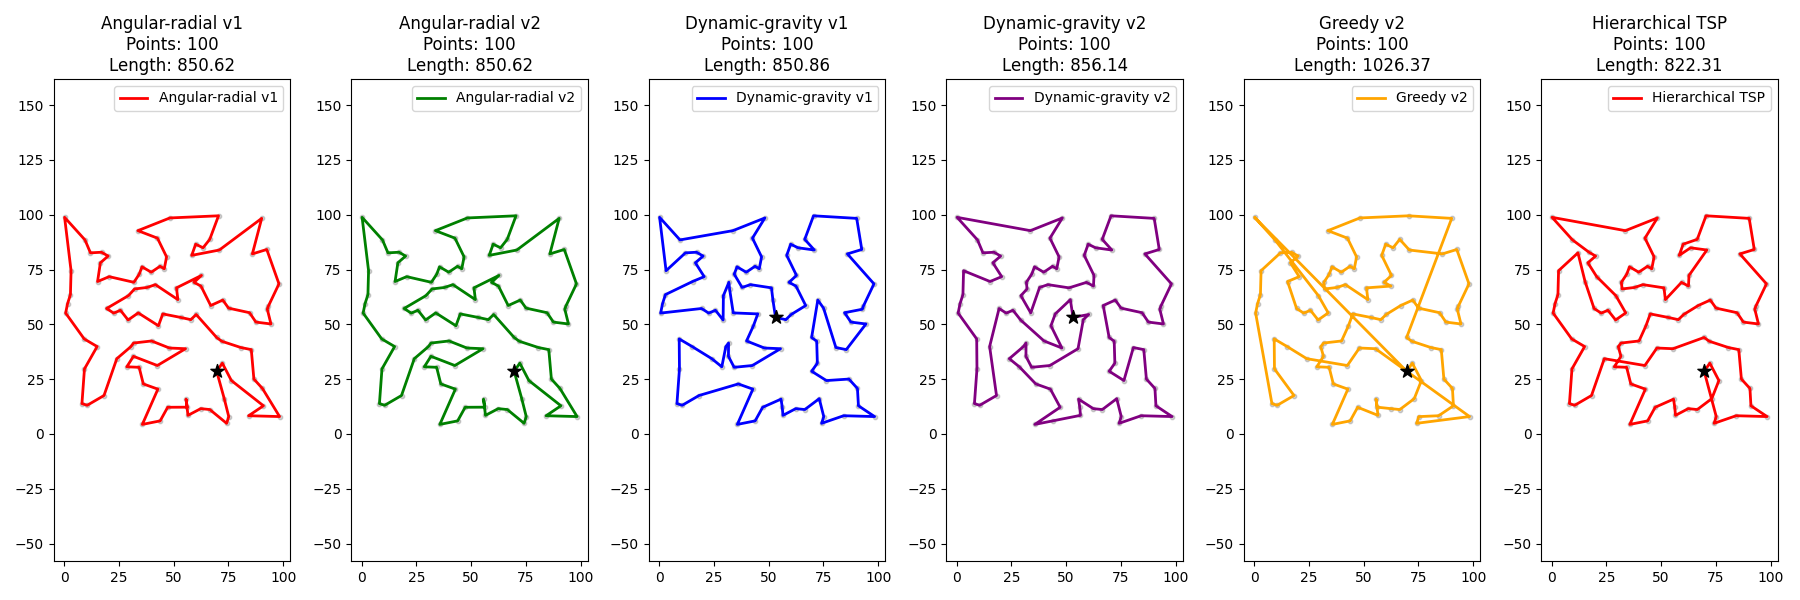
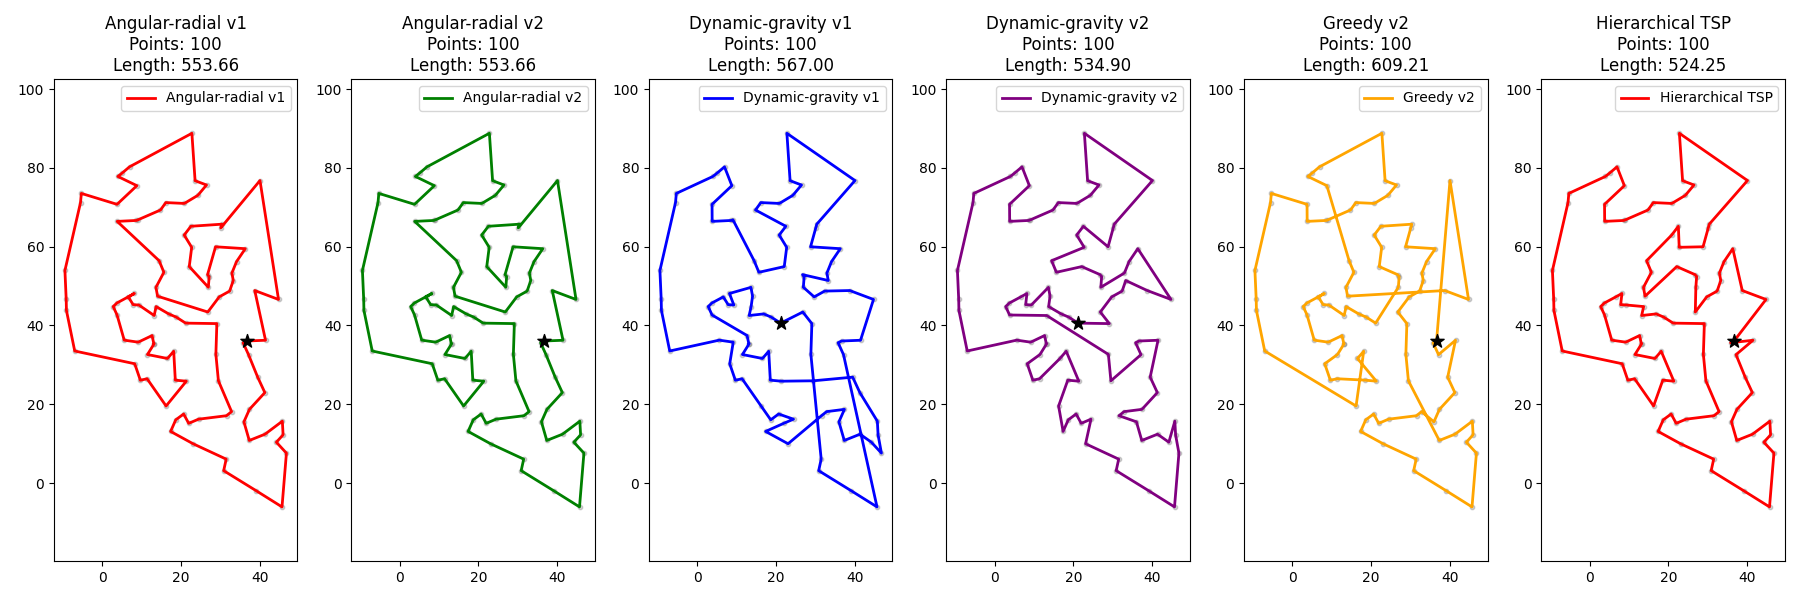
Smart TSP Solver v0.1.8
- fix errors

diff --git a/smart_tsp_solver/algorithms/hierarchical/v2.py b/smart_tsp_solver/algorithms/hierarchical/v2.py
@@ -124,7 +124,7 @@ def hierarchical_tsp_optimized(
         route = _greedy_tsp_simple(cities, dist_matrix)
         if post_optimize:
             route = _fast_2opt(route, dist_matrix, min(100, n * 2))
-        return route[:-1].tolist()
+        return route.tolist()
 
     k = max(2, n // cluster_size)
     labels, centroids = _simple_kmeans(cities, k)
@@ -156,7 +156,10 @@ def hierarchical_tsp_optimized(
         final_route_np = np.array(final_route, dtype=int)
         dist_matrix = _compute_dist_matrix_fast(cities)
         optimized_route = _fast_2opt(final_route_np, dist_matrix, 50)
-        return optimized_route[:-1].tolist()
+        return optimized_route.tolist()
+
+    if final_route and not post_optimize:
+        final_route.append(final_route[0])
 
     return final_route
 
@@ -190,6 +193,9 @@ def hierarchical_tsp_simple(cities: np.ndarray, **kwargs) -> List[int]:
             cluster_indices = np.where(labels == cluster_idx)[0]
             if len(cluster_indices) > 0:
                 final_route.append(cluster_indices[0])
+
+        if final_route:
+            final_route.append(final_route[0])
 
         return final_route
 

diff --git a/main.py b/main.py
@@ -13,7 +13,7 @@ def main():
     config = {
         'n_dots': 100,
         'seed': 123,
-        'dot_generation': 'random',
+        'dot_generation': 'cluster',
         'use_post_optimization': False,
         'plot_results': True,
         'verbose': True

diff --git a/README.md b/README.md
@@ -1,4 +1,4 @@
-# Smart TSP Solver <sup>v0.1.7</sup>
+# Smart TSP Solver <sup>v0.1.8</sup>
 
 ---
 
@@ -367,7 +367,7 @@ A commercial license is **required** for:
 ==================================================
 Dots:           100
 Seed:           123
-Generation:     random
+Generation:     cluster
 Post-opt:       OFF
 Algorithms:    
   - Angular-radial v1: 
@@ -382,69 +382,61 @@ Algorithms:
 ==================================================
 Running Angular-radial v1 algorithm...
 Description: Angular-radial v1
-Parameters: 
-Completed in 2.5245 seconds
-Route length: 850.62
+Completed in 0.0848 seconds
+Route length: 553.66
 ==================================================
 
 ==================================================
 Running Angular-radial v2 algorithm...
 Description: Angular-radial v2
-Parameters: 
-Completed in 0.6046 seconds
-Route length: 850.62
+Completed in 0.0082 seconds
+Route length: 553.66
 ==================================================
 
 ==================================================
 Running Dynamic-gravity v1 algorithm...
 Description: Dynamic-gravity v1
-Parameters: 
-Completed in 0.5134 seconds
-Route length: 850.86
+Completed in 0.0070 seconds
+Route length: 567.00
 ==================================================
 
 ==================================================
 Running Dynamic-gravity v2 algorithm...
 Description: Dynamic-gravity v2
-Parameters: 
-Completed in 0.5180 seconds
-Route length: 856.14
+Completed in 0.0067 seconds
+Route length: 534.90
 ==================================================
 
 ==================================================
 Running Greedy v2 algorithm...
 Description: Classic greedy TSP algorithm
-Parameters: 
-Completed in 0.1141 seconds
-Route length: 1026.37
+Completed in 0.0016 seconds
+Route length: 609.21
 ==================================================
 
 ==================================================
 Running Hierarchical TSP algorithm...
 Description: Hierarchical clustering TSP solver
-Parameters: 
-Completed in 0.0273 seconds
-Route length: 822.31
+Completed in 0.0343 seconds
+Route length: 524.25
 ==================================================
 
-=============================================================================================================================
-                                                DETAILED ALGORITHM COMPARISON                                                
-=============================================================================================================================
-Algorithm            | Time (s) |  vs Best  |  Length | vs Best | Params                                                     
------------------------------------------------------------------------------------------------------------------------------
-Hierarchical TSP     | 0.0273 | BEST | 822.31 | BEST | cluster_size=100, post_optimize=True                       
-Greedy v2            | 0.1141 | +318.52%  | 1026.37 | +24.81% |                                                            
-Dynamic-gravity v1   | 0.5134 | +1782.85% |  850.86 | +3.47%  | delta=0.5, fast_2opt_iter=100                              
-Dynamic-gravity v2   | 0.5180 | +1799.68% |  856.14 | +4.11%  | delta=0.5, fast_2opt_iter=100                              
-Angular-radial v2    | 0.6046 | +2117.44% |  850.62 | +3.44%  | sort_by=angle_distance, look_ahead=100, max_2opt_iter=100  
-Angular-radial v1    | 2.5245 | +9158.34% |  850.62 | +3.44%  | sort_by=angle_distance, look_ahead=100, max_2opt_iter=100  
-=============================================================================================================================
+============================================================================================================================
+                                               DETAILED ALGORITHM COMPARISON                                                
+============================================================================================================================
+Algorithm            | Time (s) |  vs Best  | Length | vs Best | Params                                                     
+----------------------------------------------------------------------------------------------------------------------------
+Greedy v2            | 0.0016 | BEST | 609.21 | +16.21% |                                                            
+Dynamic-gravity v2   | 0.0067 | +332.71%  | 534.90 | +2.03%  | delta=0.5, fast_2opt_iter=100                              
+Dynamic-gravity v1   | 0.0070 | +349.52%  | 567.00 | +8.15%  | delta=0.5, fast_2opt_iter=100                              
+Angular-radial v2    | 0.0082 | +430.93%  | 553.66 | +5.61%  | sort_by=angle_distance, look_ahead=100, max_2opt_iter=100  
+Hierarchical TSP     | 0.0343 | +2110.90% | 524.25 | BEST | cluster_size=100, post_optimize=True                       
+Angular-radial v1    | 0.0848 | +5361.28% | 553.66 | +5.61%  | sort_by=angle_distance, look_ahead=100, max_2opt_iter=100  
+============================================================================================================================
 
 PERFORMANCE ANALYSIS:
-- Fastest algorithm(s): Hierarchical TSP (0.0273 sec)
-- Shortest route(s): Hierarchical TSP (822.31 units)
-
-⭐ BEST BALANCED: Hierarchical TSP (fastest and shortest)
+- Fastest algorithm(s): Greedy v2 (0.0016 sec)
+- Shortest route(s): Hierarchical TSP (524.25 units)
 ```
 
 ```
